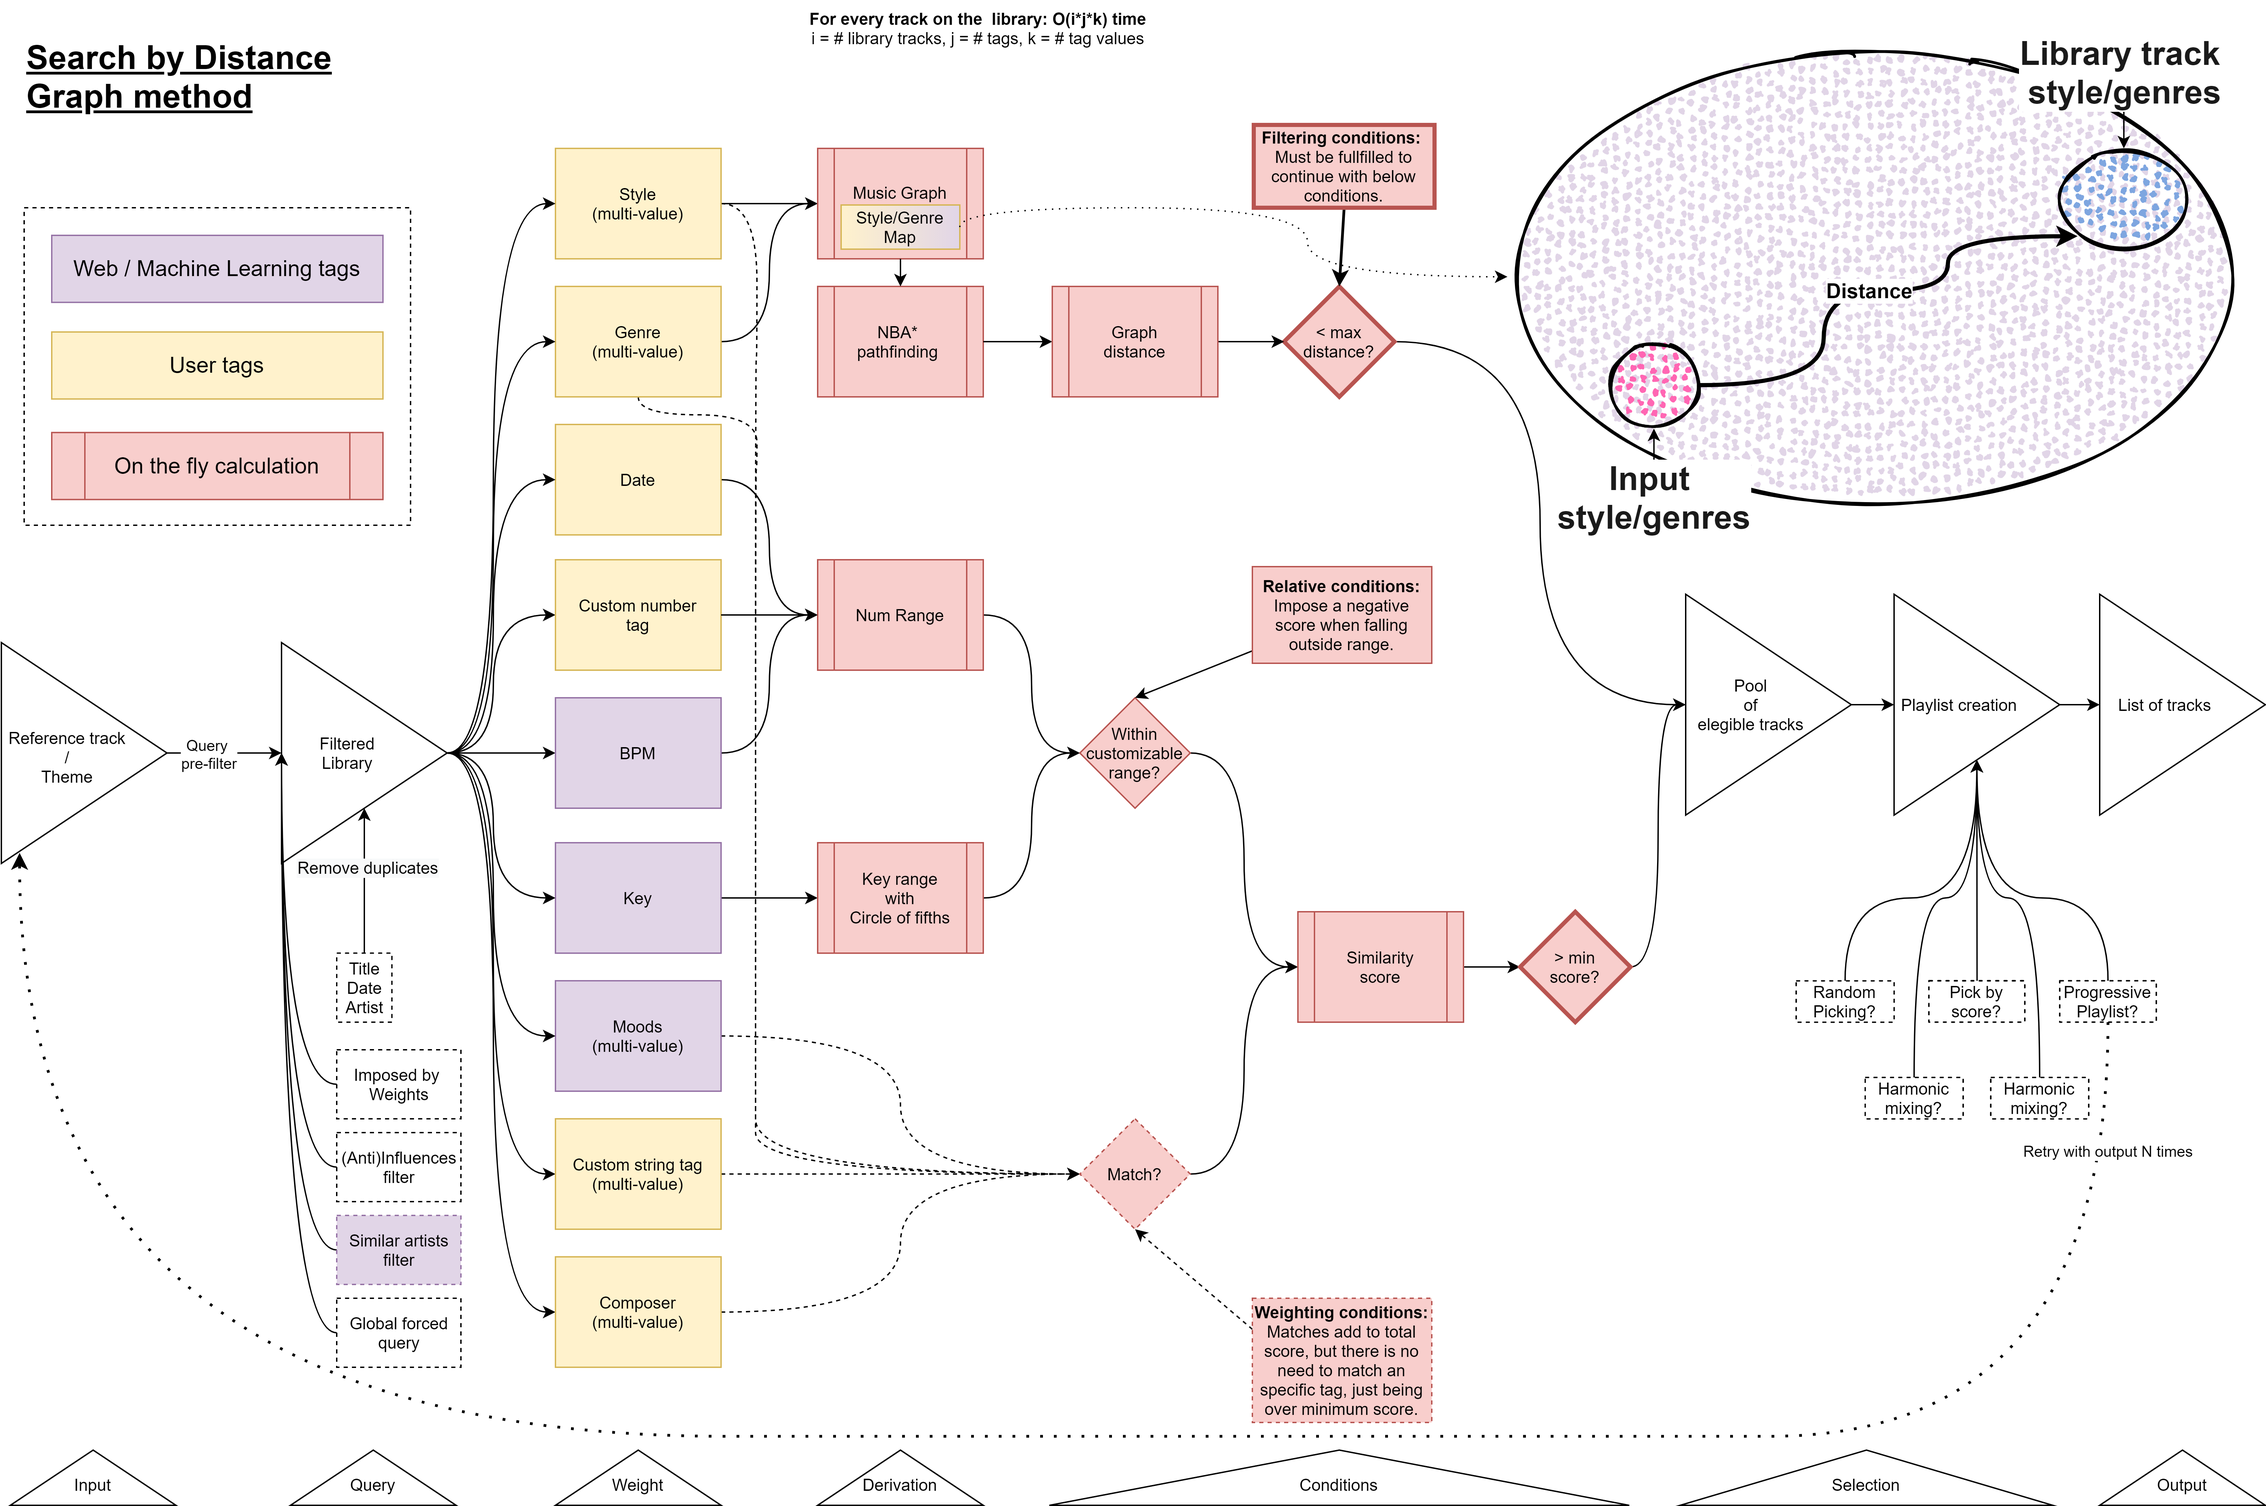
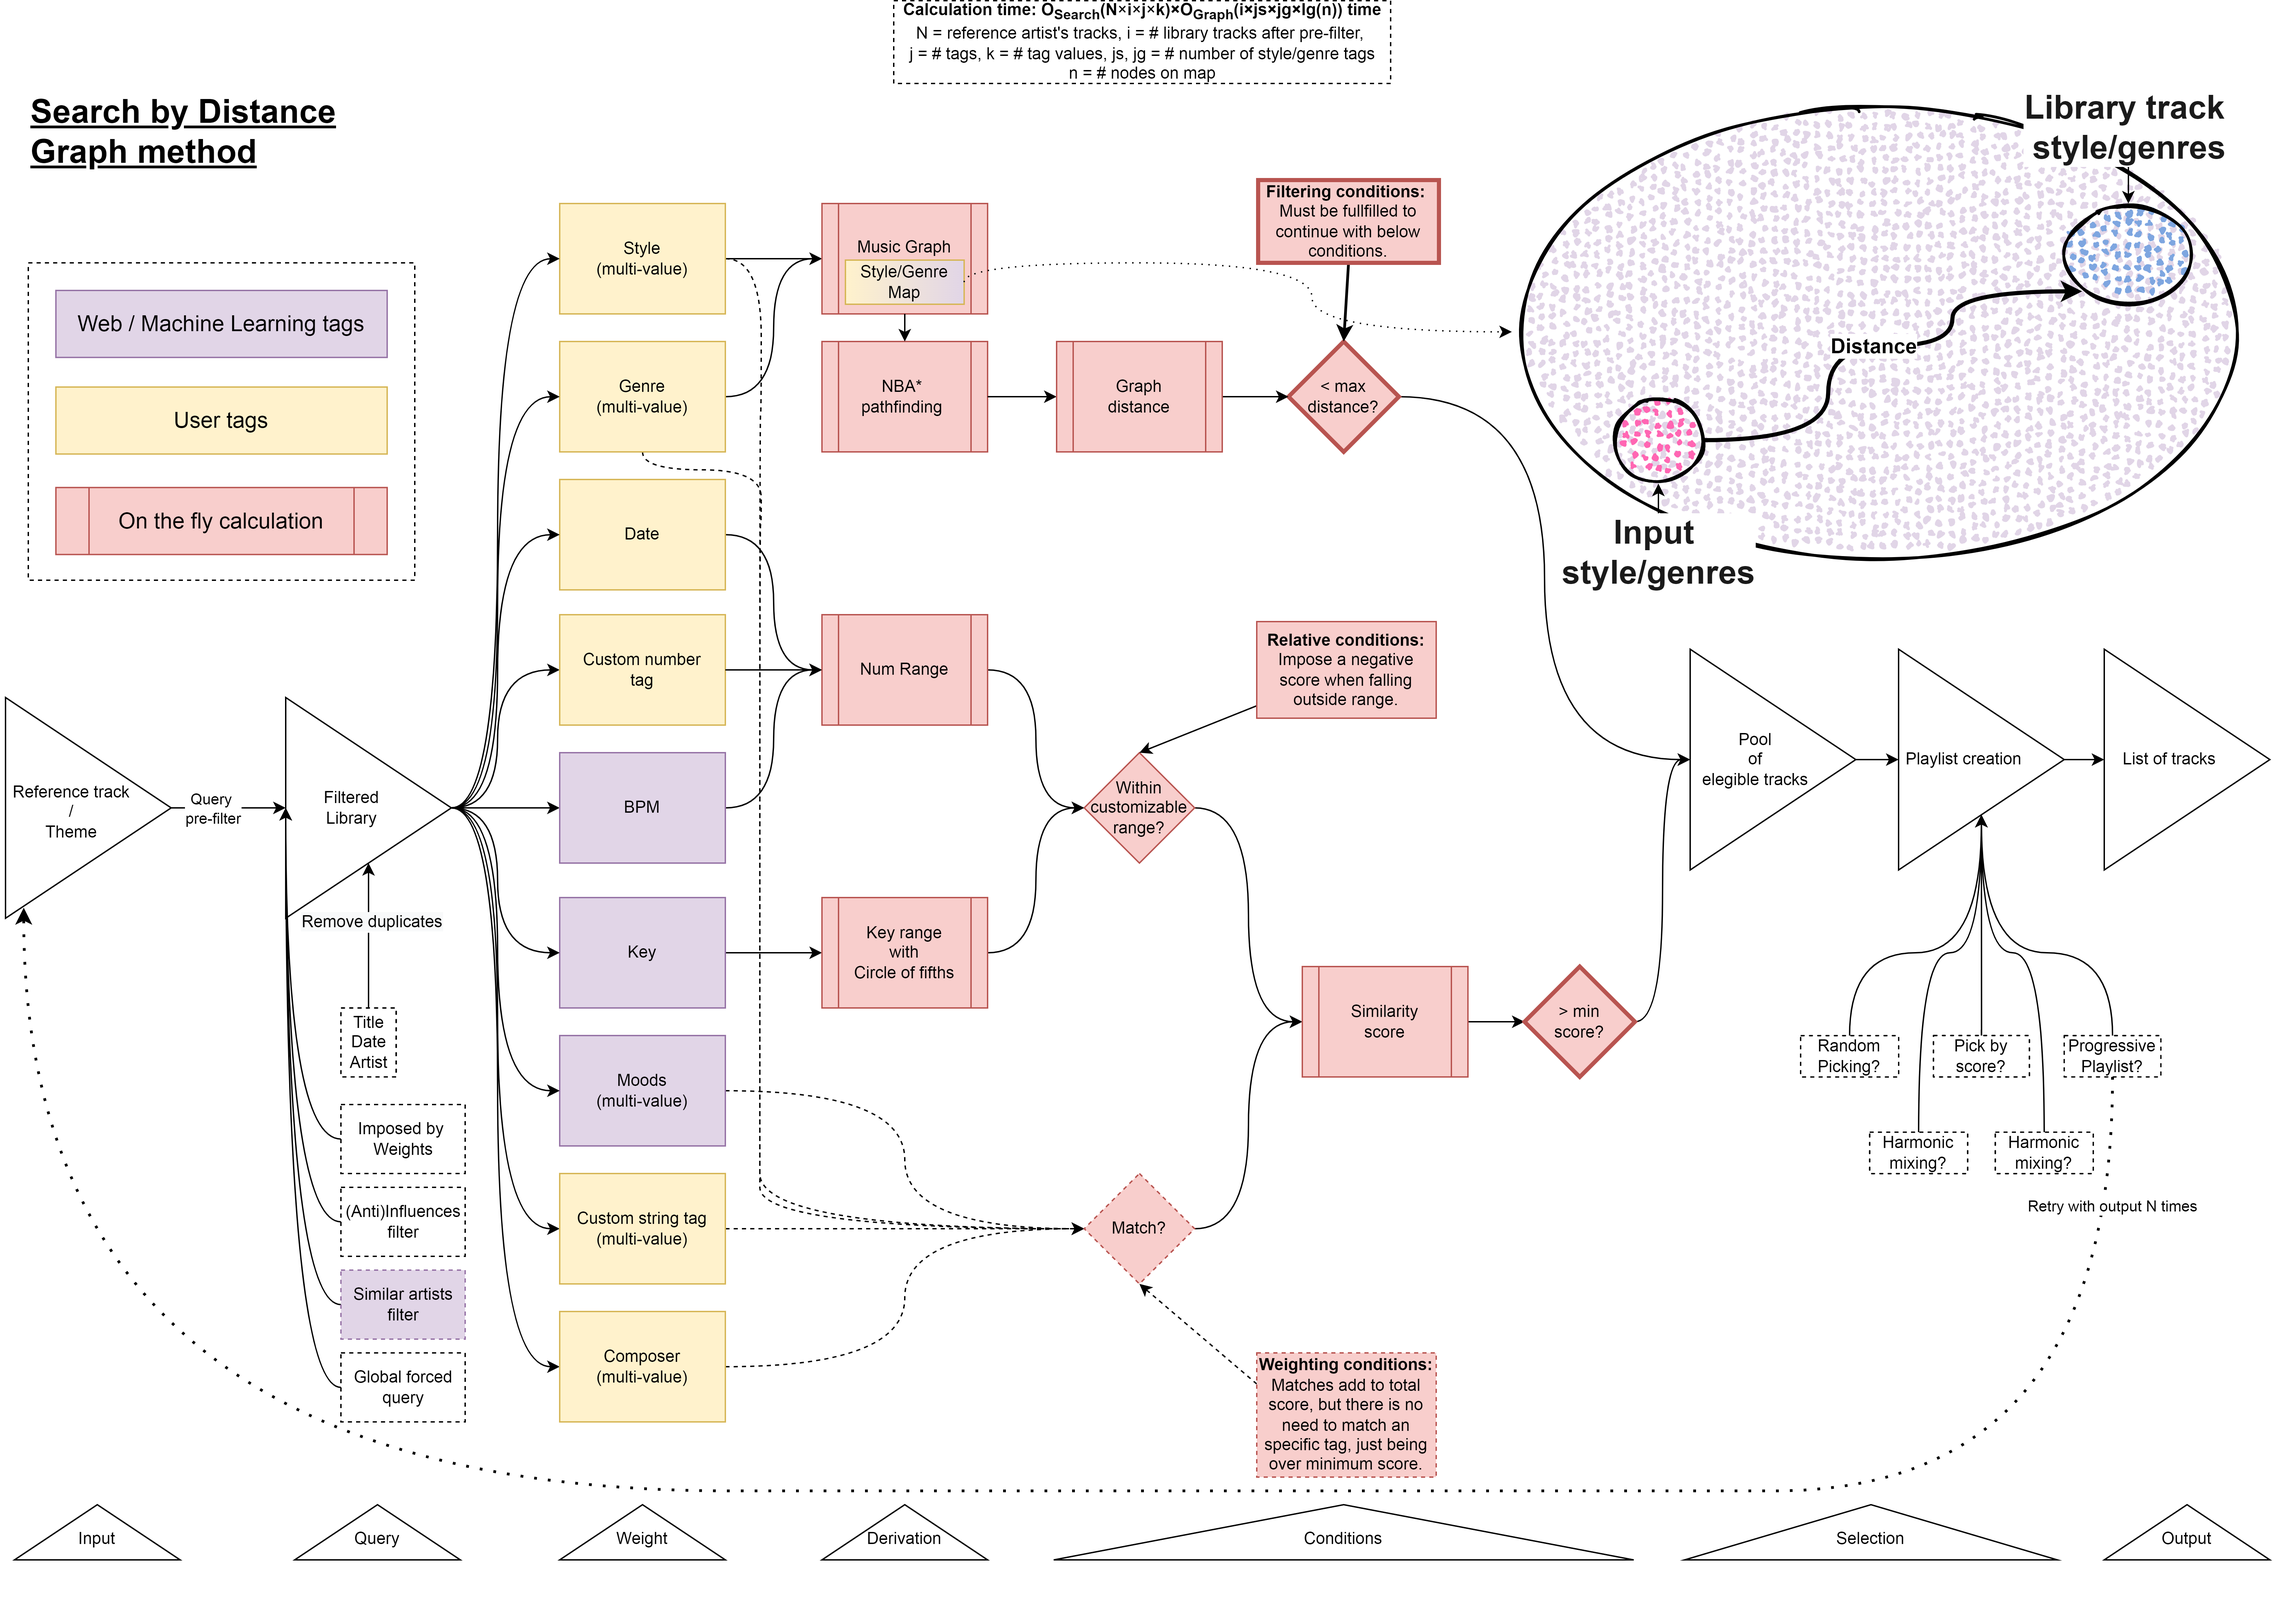
Updated changelog.

diff --git a/CHANGELOG.md b/CHANGELOG.md
@@ -2,6 +2,7 @@
 
 ## [Table of Contents]
 - [Unreleased](#unreleased)
+- [3.0.0-beta.13](#300-beta13---2021-08-11)
 - [3.0.0-beta.12](#300-beta12---2021-08-10)
 - [3.0.0-beta.11](#300-beta11---2021-08-09)
 - [3.0.0-beta.10](#300-beta10---2021-08-07)
@@ -29,6 +30,18 @@
 ### Changed
 ### Removed
 ### Fixed
+
+## [3.0.0-beta.13] - 2022-08-11
+### Added
+- Search by Distance: diagrams explaining the design logic of similar artists calculation with 3 different methods ('_images\search_by_distance_SIMILAR_ARTISTS(R|V|W)_diagram.png').
+### Changed
+- Search by Distance: when calculating similar artists, library tracks are now filtered by nearest genre/styles to tracks by selected artist for every track, instead of using only the first track as reference. This should better reflect the works of an artist without depending on the reference track at all. Previously, output score would be heavily dependent on the reference track.
+- Search by Distance: when calculating similar artists, scores are now weighted with genre/style appearance on all artist's tracks. i.e. if 'Mdour Moctar' has 1 Reggae track on your library and 99 Rock tracks, then if the Reggae track is chosen for the calcs, it's score is weighted as 1% of the total score (instead of averaging all N scores).
+- Search by Distance: when calculating similar artists, current method uses the 2 above changes, named 'weighted'. Using only the filter change is 'variable'. Previous method based on reference track is named 'reference'. This is an internal change, but functionality -based on names- can be seen on the diagrams. 'Weighted' will be the default method from now on, not meant to be changed (unless the script 'search_bydistance_extra.js' is edited). In resume, this change is aimed to better reflect the entire work of an artist, instead of specific tracks or being tied to random variations.
+### Removed
+### Fixed
+- Search by Distance: when calculating similar artists, before choosing N random tracks, from selected artist, duplicates are now removed (to ensure no track is selected twice if it appears at different albums for ex.). Checks for Title + Artist + Date.
+- Presets: updated Picard AcousticBrainz presets with fixes to output when values used scientific notation and other weird situations.
 
 ## [3.0.0-beta.12] - 2022-08-10
 ### Added
@@ -556,8 +569,9 @@
 ### Removed
 ### Fixed
 
-[Unreleased]: https://github.com/regorxxx/Playlist-Tools-SMP/compare/v3.0.0-beta.12...HEAD
-[3.0.0-beta.12]: https://github.com/regorxxx/Playlist-Tools-SMP/compare/v3.0.0-beta.10...v3.0.0-beta.12
+[Unreleased]: https://github.com/regorxxx/Playlist-Tools-SMP/compare/v3.0.0-beta.13...HEAD
+[3.0.0-beta.13]: https://github.com/regorxxx/Playlist-Tools-SMP/compare/v3.0.0-beta.12...v3.0.0-beta.13
+[3.0.0-beta.12]: https://github.com/regorxxx/Playlist-Tools-SMP/compare/v3.0.0-beta.11...v3.0.0-beta.12
 [3.0.0-beta.11]: https://github.com/regorxxx/Playlist-Tools-SMP/compare/v3.0.0-beta.10...v3.0.0-beta.11
 [3.0.0-beta.10]: https://github.com/regorxxx/Playlist-Tools-SMP/compare/v3.0.0-beta.9...v3.0.0-beta.10
 [3.0.0-beta.9]: https://github.com/regorxxx/Playlist-Tools-SMP/compare/v3.0.0-beta.8...v3.0.0-beta.9
